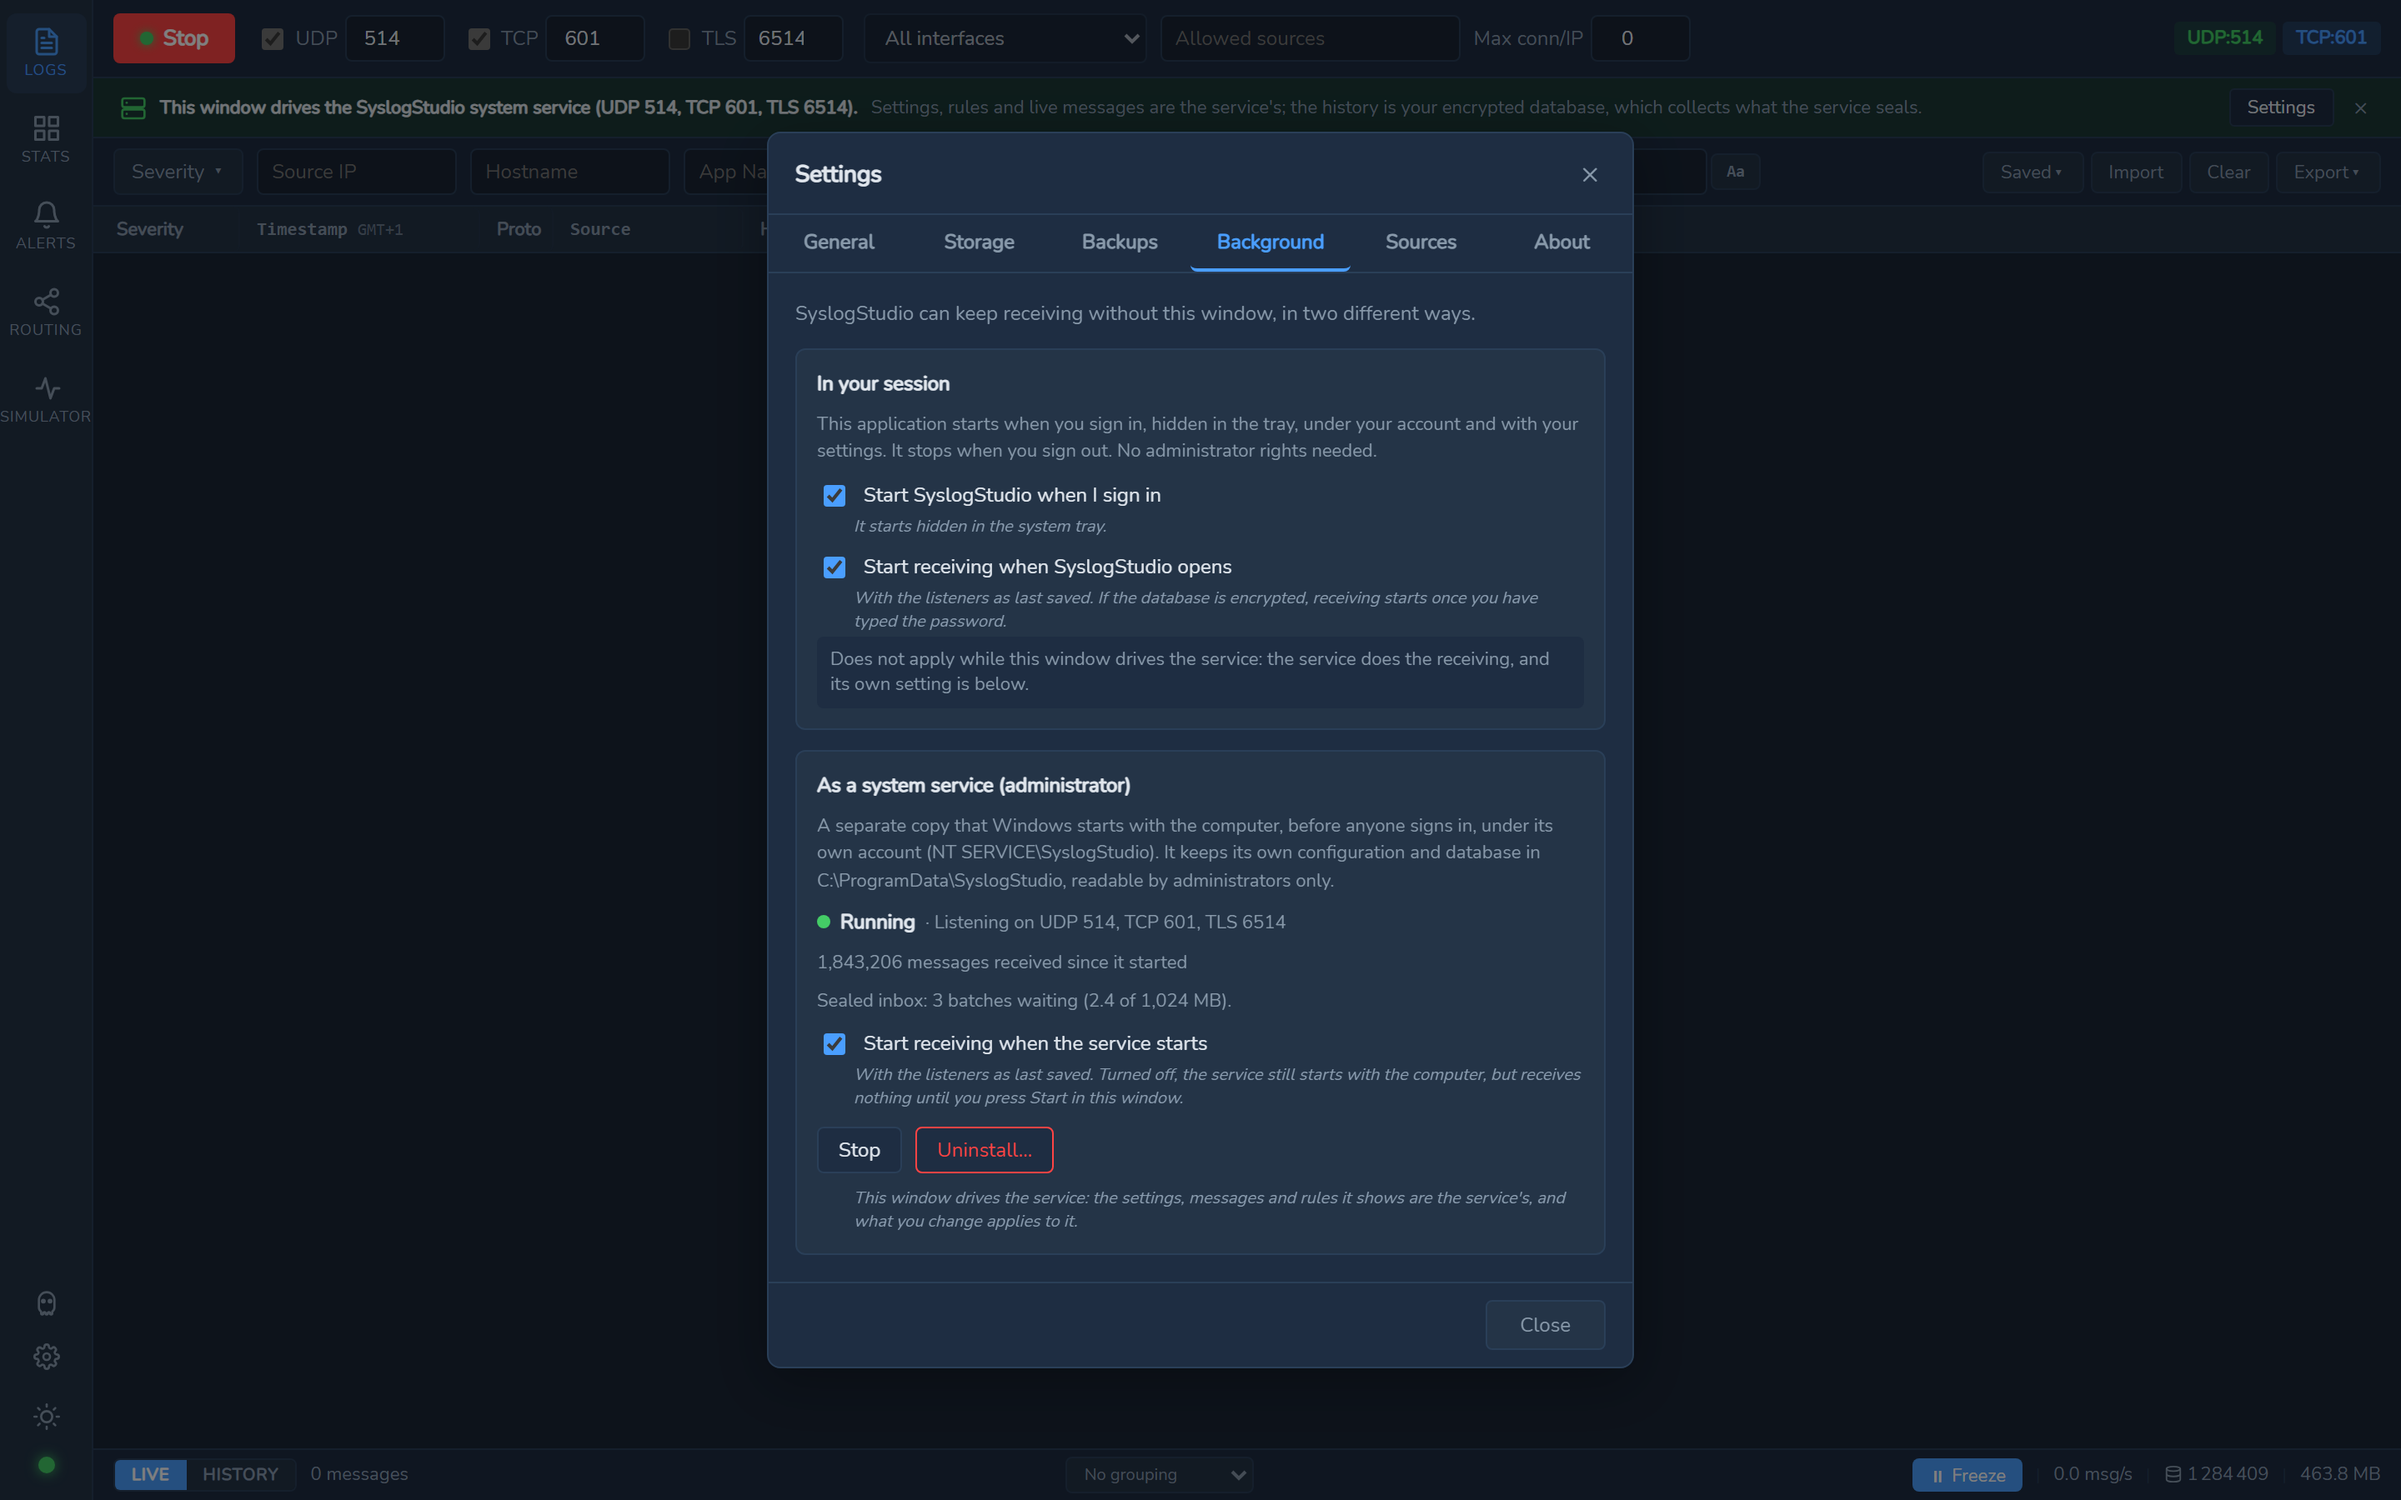
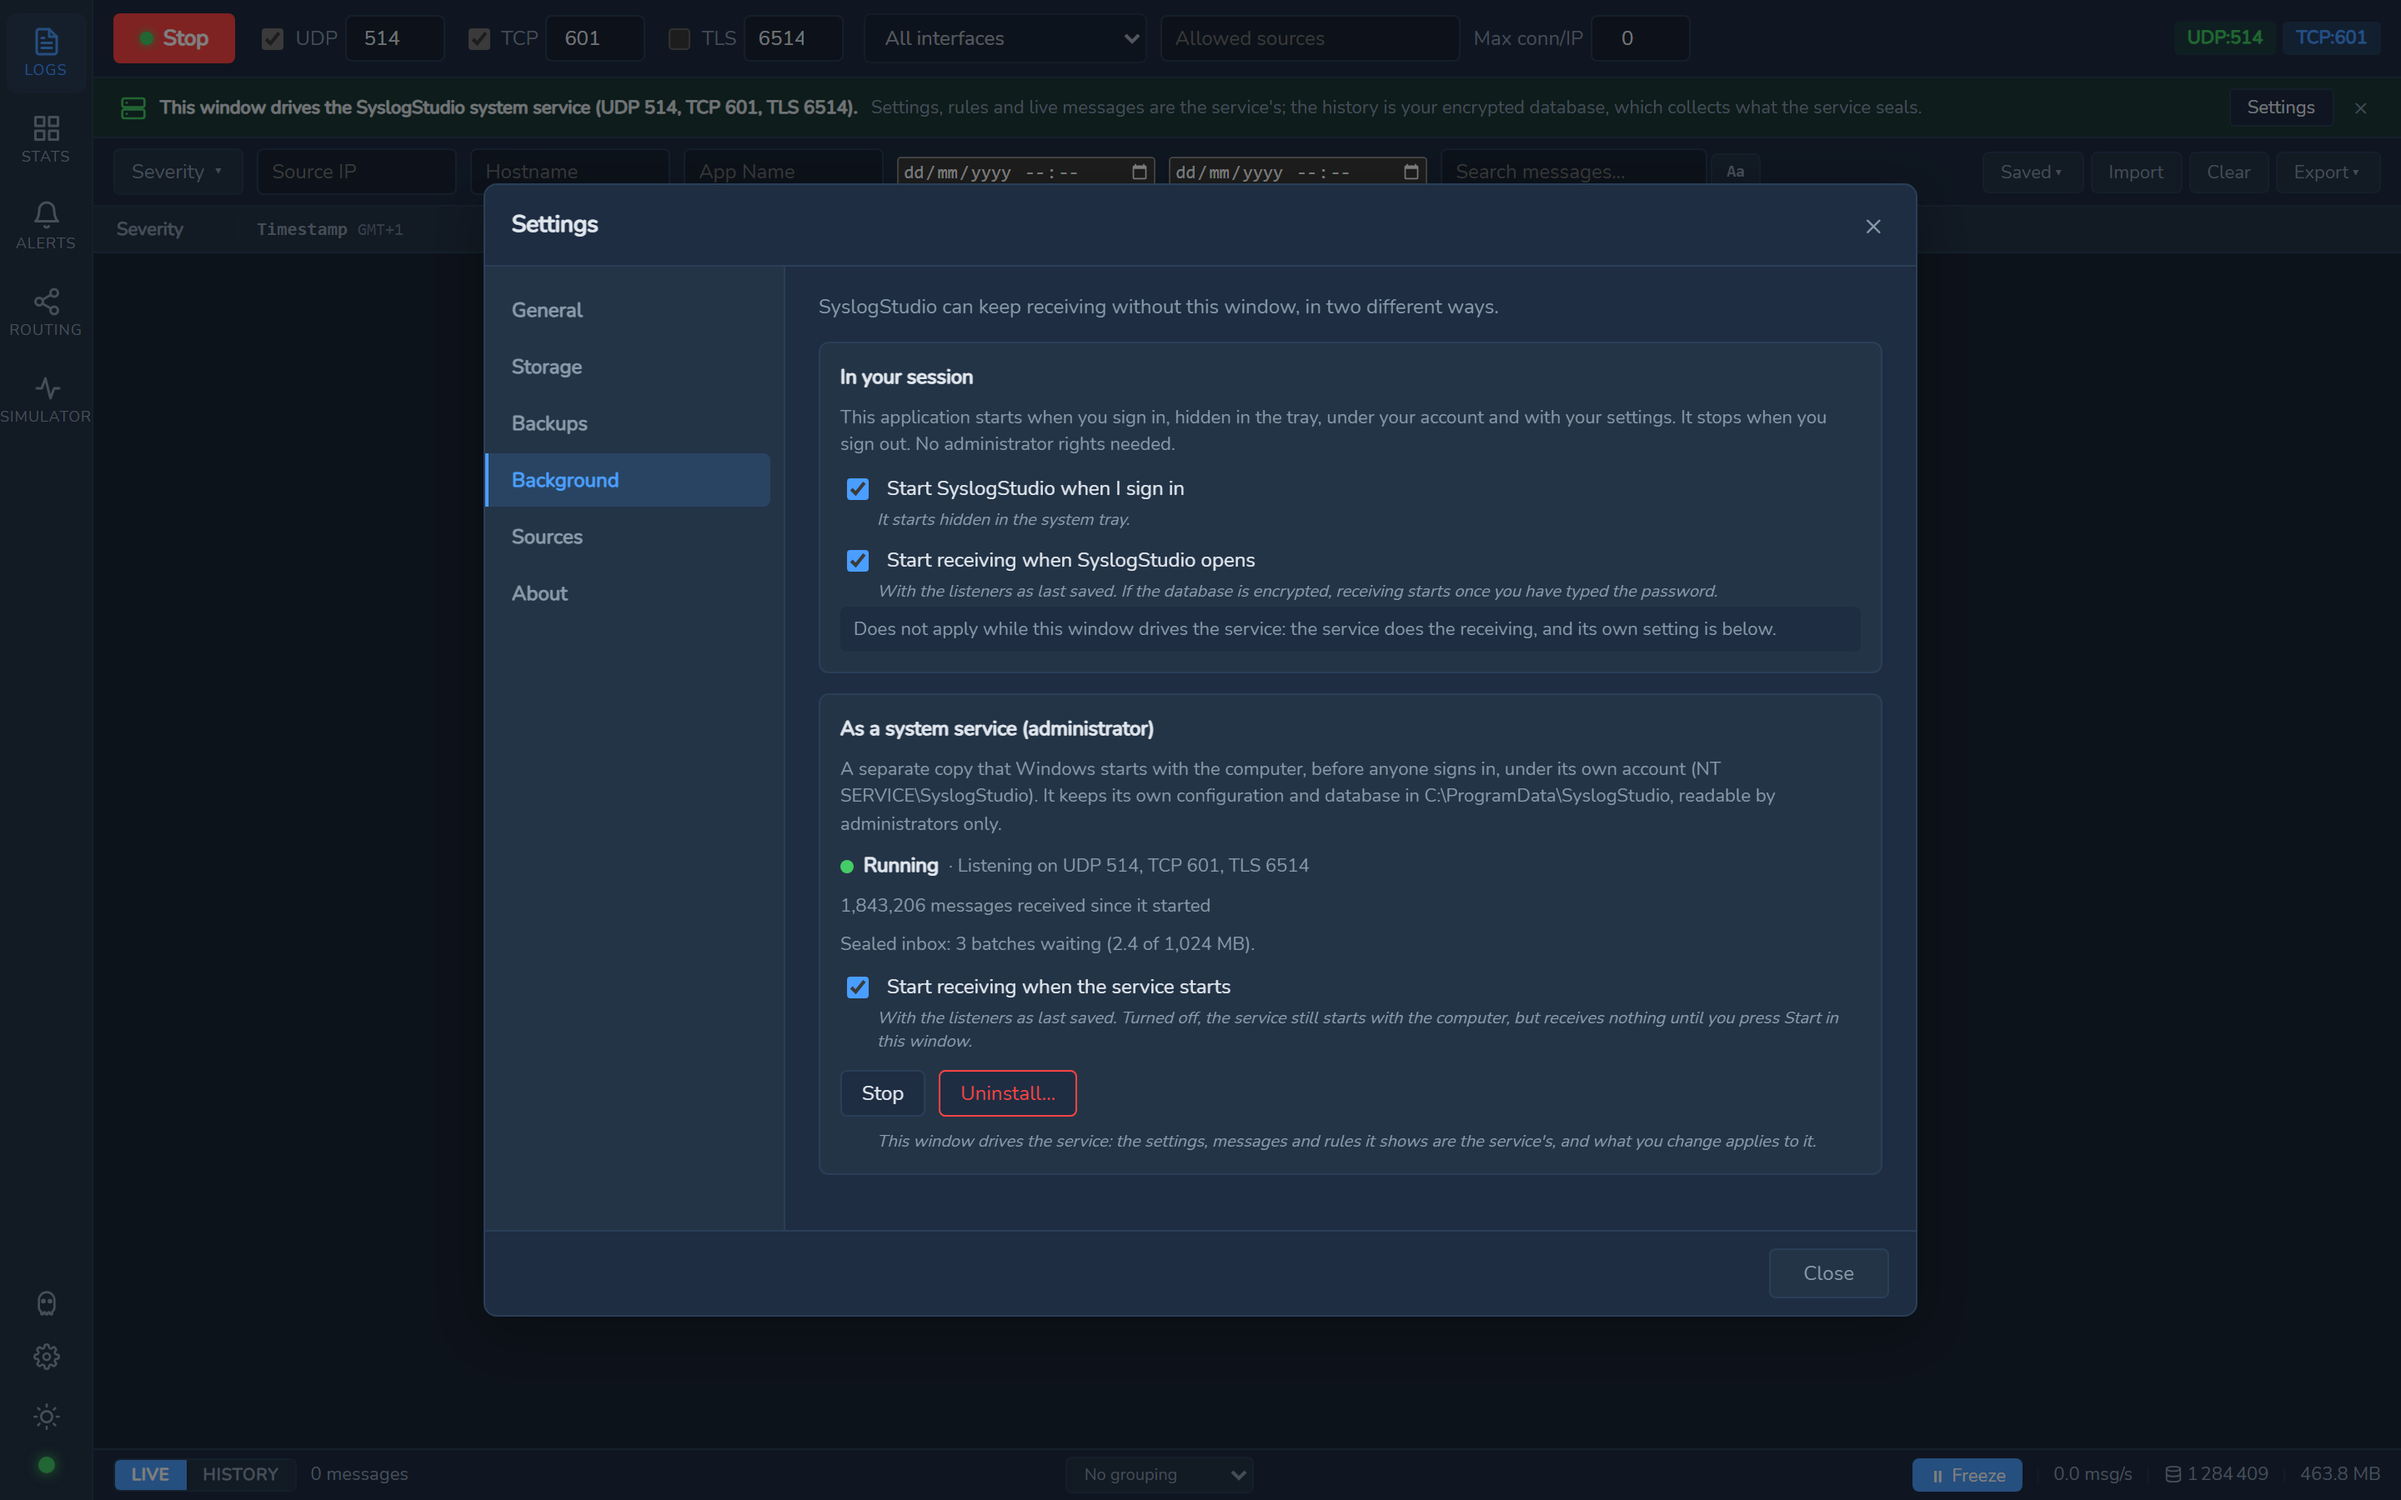
feat(settings): tabs in a column on the left
Six tabs across a 520 px dialog left each one a narrow label, and the
dialog changed height with every tab. The tabs now run down the left of
a wider dialog (860 px, 95% of the window at most) of one fixed height,
so the list stays put and the body gets the width of a desktop screen.
Below 700 px, the demo on a phone, they go back above the body.

The tab list is built from one array, with tablist/tab roles and the
up and down arrows moving along it. The Background and Backups
screenshots are regenerated.

Changed region(s): [[0.1875, 0.0622, 0.8125, 0.9333]]

diff --git a/frontend/src/components/Settings.svelte b/frontend/src/components/Settings.svelte
@@ -40,6 +40,26 @@
 
     type Tab = 'general' | 'storage' | 'backups' | 'background' | 'sources' | 'about';
     let activeTab: Tab = 'general';
+    const TABS: { id: Tab; label: string }[] = [
+        { id: 'general', label: 'settings.general' },
+        { id: 'storage', label: 'settings.storage' },
+        { id: 'backups', label: 'backup.tab' },
+        { id: 'background', label: 'background.tab' },
+        { id: 'sources', label: 'sources.tab' },
+        { id: 'about', label: 'settings.about' },
+    ];
+    let tabButtons: HTMLButtonElement[] = [];
+
+    // Up and down move along the list, as in any vertical tab list.
+    function onTabKeydown(e: KeyboardEvent) {
+        const step = e.key === 'ArrowDown' ? 1 : e.key === 'ArrowUp' ? -1 : 0;
+        if (!step) return;
+        e.preventDefault();
+        const i = TABS.findIndex(t => t.id === activeTab);
+        const next = (i + step + TABS.length) % TABS.length;
+        activeTab = TABS[next].id;
+        tabButtons[next]?.focus();
+    }
     $: if (visible && initialTab) activeTab = initialTab;
     // A dialog open inside the Background or Backups tab takes Escape first.
     let backgroundOverlayOpen = false;
@@ -486,34 +506,17 @@
                 <button class="close-btn" on:click={onClose} aria-label={$_('common.close')}>&times;</button>
             </div>
 
-            <div class="tabs">
-                <button class="tab" class:active={activeTab === 'general'}
-                        on:click={() => activeTab = 'general'}>
-                    {$_('settings.general')}
-                </button>
-                <button class="tab" class:active={activeTab === 'storage'}
-                        on:click={() => activeTab = 'storage'}>
-                    {$_('settings.storage')}
-                </button>
-                <button class="tab" class:active={activeTab === 'backups'}
-                        on:click={() => activeTab = 'backups'}>
-                    {$_('backup.tab')}
-                </button>
-                <button class="tab" class:active={activeTab === 'background'}
-                        on:click={() => activeTab = 'background'}>
-                    {$_('background.tab')}
-                </button>
-                <button class="tab" class:active={activeTab === 'sources'}
-                        on:click={() => activeTab = 'sources'}>
-                    {$_('sources.tab')}
-                </button>
-                <button class="tab" class:active={activeTab === 'about'}
-                        on:click={() => activeTab = 'about'}>
-                    {$_('settings.about')}
-                </button>
+            <div class="tabs" role="tablist" aria-orientation="vertical" tabindex="-1" on:keydown={onTabKeydown}>
+                {#each TABS as tab, i (tab.id)}
+                    <button class="tab" class:active={activeTab === tab.id} role="tab"
+                            aria-selected={activeTab === tab.id} tabindex={activeTab === tab.id ? 0 : -1}
+                            bind:this={tabButtons[i]} on:click={() => activeTab = tab.id}>
+                        {$_(tab.label)}
+                    </button>
+                {/each}
             </div>
 
-            <div class="modal-body">
+            <div class="modal-body" role="tabpanel">
                 {#if activeTab === 'general'}
                     <div class="form-group">
                         <label for="settings-theme">{$_('settings.theme')}</label>
@@ -915,25 +918,29 @@
         z-index: 200;
     }
 
+    /* The tabs in a column on the left of the body, header and footer across
+       both. One size whatever the tab, so the column does not move. */
     .modal {
         background: var(--bg-secondary);
         border: 1px solid var(--border-color);
         border-radius: 8px;
-        width: 520px;
+        width: 860px;
         max-width: 95vw;
+        height: 680px;
         max-height: 88vh;
-        display: flex;
-        flex-direction: column;
+        display: grid;
+        grid-template-columns: 180px minmax(0, 1fr);
+        grid-template-rows: auto minmax(0, 1fr) auto;
         box-shadow: 0 8px 32px var(--shadow-color);
     }
 
     .modal-header {
+        grid-column: 1 / -1;
         display: flex;
         align-items: center;
         justify-content: space-between;
         padding: 12px 16px;
         border-bottom: 1px solid var(--border-color);
-        flex-shrink: 0;
     }
 
     .modal-title { font-size: 14px; font-weight: 600; }
@@ -948,26 +955,31 @@
 
     .tabs {
         display: flex;
-        border-bottom: 1px solid var(--border-color);
-        flex-shrink: 0;
+        flex-direction: column;
+        gap: 2px;
+        padding: 10px 8px 10px 0;
+        background: var(--bg-tertiary);
+        border-right: 1px solid var(--border-color);
+        overflow-y: auto;
     }
 
     .tab {
-        flex: 1;
-        padding: 8px 16px;
+        padding: 8px 12px 8px 14px;
         background: transparent;
         color: var(--text-secondary);
         font-size: 12px;
         font-weight: 600;
+        text-align: left;
         border: none;
-        border-bottom: 2px solid transparent;
+        border-left: 2px solid transparent;
+        border-radius: 0 4px 4px 0;
         cursor: pointer;
     }
     .tab:hover { color: var(--text-primary); background: var(--bg-hover); }
-    .tab.active { color: var(--accent); border-bottom-color: var(--accent); }
+    .tab.active { color: var(--accent); background: var(--accent-bg); border-left-color: var(--accent); }
 
     .modal-body {
-        padding: 16px;
+        padding: 16px 20px;
         overflow-y: auto;
         display: flex;
         flex-direction: column;
@@ -975,11 +987,36 @@
     }
 
     .modal-footer {
+        grid-column: 1 / -1;
         display: flex;
         justify-content: flex-end;
         padding: 10px 16px;
         border-top: 1px solid var(--border-color);
-        flex-shrink: 0;
+    }
+
+    /* Too narrow for a column: the tabs go back above the body. */
+    @media (max-width: 700px) {
+        .modal {
+            grid-template-columns: minmax(0, 1fr);
+            grid-template-rows: auto auto minmax(0, 1fr) auto;
+        }
+        .tabs {
+            flex-direction: row;
+            gap: 0;
+            padding: 0;
+            border-right: none;
+            border-bottom: 1px solid var(--border-color);
+            overflow-x: auto;
+            overflow-y: hidden;
+        }
+        .tab {
+            flex: 1;
+            white-space: nowrap;
+            border-left: none;
+            border-bottom: 2px solid transparent;
+            border-radius: 0;
+        }
+        .tab.active { border-bottom-color: var(--accent); }
     }
     .close-footer-btn {
         background: var(--bg-tertiary);
